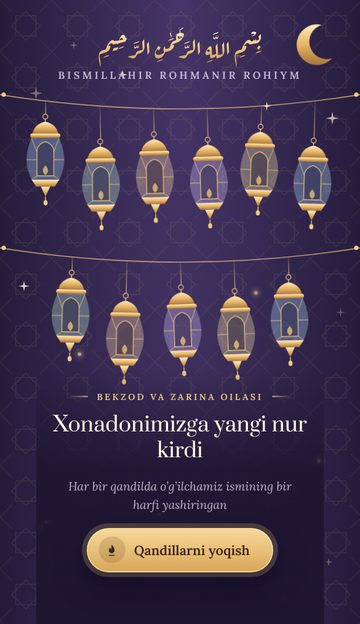
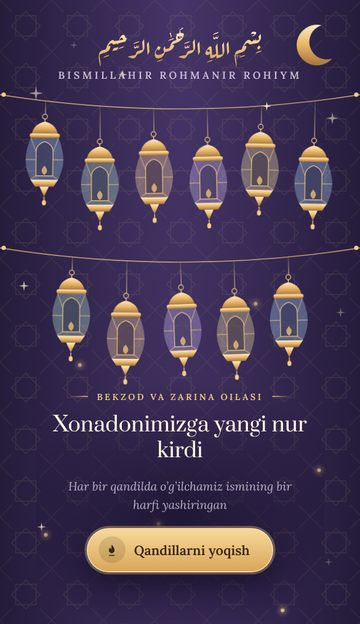
Islomiy va kreativ shablonlar (jarayonda) — oraliq holat
Claude-Session: https://claude.ai/code/session_01QjjRgS6SRFPeCnymLTHs8Z

diff --git a/catalog/v2/tugilgan-kun/tk8-hilol.dc.html b/catalog/v2/tugilgan-kun/tk8-hilol.dc.html
@@ -359,10 +359,10 @@ a{color:#C9BEF5}
         <p class="hl-d" style="margin: 0; font-size: 34px; line-height: 1.15; color: #F4EFE6">Alloh umringizga baraka bersin</p>
         <p style="margin: 12px 0 0; font-size: 15px; line-height: 1.6; color: #ADA6CF">Hayotingiz to’lin oydek nurli, kunlaringiz tinch va barakali bo’lsin. Omin.</p>
       </div>
-      <div aria-hidden="true" style="position: relative; height: 190px; margin-top: 20px; overflow: hidden">
-        <div class="hl-moonG" style="position: absolute; left: 115px; top: 0; width: 160px; height: 160px; border-radius: 50%; background: radial-gradient(circle, rgba(244,239,230,0.35), rgba(201,190,245,0) 70%)"></div>
-        <div style="position: absolute; left: 155px; top: 40px; width: 80px; height: 80px; border-radius: 50%; background: radial-gradient(circle at 40% 35%, #FFFDF6, #E3DCF4 60%, #C3B8EC); box-shadow: 0 0 40px rgba(244,239,230,0.5)"></div>
-        <svg width="390" height="190" viewBox="0 650 390 190" preserveAspectRatio="none" style="position: absolute; left: 0; top: 0"><path d="{{ skyline }}" fill="#0E0B26"></path><sc-for list="{{ footWins }}" as="fw"><rect x="{{ fw.x }}" y="{{ fw.y }}" width="5" height="7" rx="2.5" fill="#F6B95A"></rect></sc-for></svg>
+      <div aria-hidden="true" style="position: relative; height: 324px; margin-top: 0; overflow: hidden">
+        <div class="hl-moonG" style="position: absolute; left: 230px; top: -20px; width: 160px; height: 160px; border-radius: 50%; background: radial-gradient(circle, rgba(244,239,230,0.35), rgba(201,190,245,0) 70%)"></div>
+        <div style="position: absolute; left: 270px; top: 20px; width: 80px; height: 80px; border-radius: 50%; background: radial-gradient(circle at 40% 35%, #FFFDF6, #E3DCF4 60%, #C3B8EC); box-shadow: 0 0 40px rgba(244,239,230,0.5)"></div>
+        <svg width="390" height="324" viewBox="0 520 390 324" style="position: absolute; left: 0; top: 0"><path d="{{ skyline }}" fill="#0E0B26"></path><sc-for list="{{ footWins }}" as="fw"><rect x="{{ fw.x }}" y="{{ fw.y }}" width="5" height="7" rx="2.5" fill="#F6B95A"></rect></sc-for></svg>
       </div>
       <div style="position: relative; padding: 4px 20px 30px; background: #0E0B26">
         <p class="hl-d" style="margin: 0; font-size: {{ footFs }}px; line-height: 1.1; color: #F4EFE6; overflow-wrap: break-word">{{ name }}</p>
@@ -489,7 +489,7 @@ class Component extends DCLogic {
       return 'left: ' + Math.round(rnd(i, 40) * 386) + 'px; top: ' + f1(rnd(i, 41) * 100) + '%; width: ' + f1(sz) + 'px; height: ' + f1(sz) + 'px; animation-duration: ' + (2 + rnd(i, 43) * 3).toFixed(1) + 's; animation-delay: -' + (rnd(i, 44) * 3).toFixed(1) + 's';
     });
     const rays = Array.from({ length: 14 }, (_, i) => '--a: ' + Math.round(-180 + i * (180 / 13)) + 'deg; --d: ' + Math.round(80 + rnd(i, 50) * 60) + 'px; animation-delay: ' + (rnd(i, 51) * 0.18).toFixed(2) + 's');
-    const footWins = Array.from({ length: 16 }, (_, i) => ({ x: Math.round(10 + rnd(i, 60) * 370), y: Math.round(712 + rnd(i, 61) * 110) }));
+    const footWins = Array.from({ length: 16 }, (_, i) => ({ x: Math.round(10 + rnd(i, 60) * 370), y: Math.round(712 + rnd(i, 61) * 120) }));
     this.deco = {
       skyStars: skyStars, frameStars: frameStars, wins: wins, pageStars: pageStars, rays: rays, footWins: footWins,
       skyline: SKY, archD: ARCH,

diff --git a/catalog/v2/toy/toy11-registon.dc.html b/catalog/v2/toy/toy11-registon.dc.html
@@ -532,7 +532,7 @@ body{margin:0;background:#0E1636}
       </svg>
     </div>
     <div style="padding: 34px 24px 64px; display: flex; flex-direction: column; align-items: center; text-align: center; background: linear-gradient(180deg, #0B1230, #080D24)">
-      <p class="rg-ar rg-r" dir="rtl" lang="ar" style="margin: 0; max-width: 350px; font-size: 21px; line-height: 46px; color: #FFE3A0">بَارَكَ اللَّهُ لَكُمَا وَبَارَكَ عَلَيْكُمَا وَجَمَعَ بَيْنَكُمَا فِي خَيْرٍ</p>
+      <p class="rg-ar rg-r" dir="rtl" lang="ar" style="margin: 0; max-width: 356px; font-size: 18px; line-height: 42px; color: #FFE3A0">بَارَكَ اللَّهُ لَكُمَا وَبَارَكَ عَلَيْكُمَا وَجَمَعَ بَيْنَكُمَا فِي خَيْرٍ</p>
       <p class="rg-r" style="margin: 12px 0 0; max-width: 320px; font-style: italic; font-weight: 300; font-size: 15px; line-height: 24px; color: #D8DAEA; animation-delay: .08s">«Alloh sizlarga baraka bersin, ustingizga baraka yog’dirsin va ikkingizni yaxshilikda jamlasin»</p>
       <p class="rg-ys rg-r" style="margin: 30px 0 0; font-size: 30px; line-height: 38px; color: #FFF6E2; animation-delay: .14s">Tashrifingizdan xursand bo’lamiz</p>
       <sc-if value="{{ d.taklif_qiluvchilar }}"><p class="rg-lbl rg-r" style="margin-top: 22px; line-height: 19px; color: #9FE6E8; overflow-wrap: anywhere; animation-delay: .2s">{{ d.taklif_qiluvchilar }}</p></sc-if>

diff --git a/catalog/v2/farzand/fz8-chorbog.dc.html b/catalog/v2/farzand/fz8-chorbog.dc.html
@@ -126,7 +126,7 @@ body{margin:0;background:#EFE4CF}
 
   <div data-intro class="{{ introCls }}" aria-hidden="{{ introHidden }}" style="display: {{ introDisp }}; position: absolute; left: 0; top: 0; width: 390px; height: 844px; z-index: 30; overflow: hidden">
     <span aria-hidden="true" style="position: absolute; left: 0; top: 0; width: 0; height: 0"></span>
-    <div aria-hidden="true" style="position: absolute; left: 0; top: 640px; width: 390px; height: 204px; background: linear-gradient(180deg, rgba(239, 228, 207, 0), rgba(239, 228, 207, 0.96) 34%, #EFE4CF)"></div>
+    <div aria-hidden="true" style="position: absolute; left: 0; top: 640px; width: 390px; height: 204px; background: radial-gradient(ellipse 58% 48% at 50% 52%, rgba(243, 234, 214, 0.97) 45%, rgba(243, 234, 214, 0) 100%)"></div>
     <div style="position: absolute; left: 0; top: 676px; width: 390px; text-align: center">
       <p style="margin: 0 34px; font-size: 18px; font-style: italic; line-height: 1.45; color: #5C6553">{{ introHint }}</p>
       <button type="button" class="cb-btn cb-cta" onClick="{{ open }}" style="margin-top: 16px; display: inline-flex; align-items: center; gap: 12px; height: 60px; padding: 0 30px 0 14px; border: 0; border-radius: 30px; background: linear-gradient(180deg, #4DB5B0, #2B8A87); color: #FFFFFF; font-family: 'Tenor Sans', 'Trebuchet MS', sans-serif; font-size: 17px; letter-spacing: 0.04em">

diff --git a/catalog/v2/farzand/fz8-koshin.dc.html b/catalog/v2/farzand/fz8-koshin.dc.html
@@ -103,7 +103,7 @@ body{margin:0;background:#E6EFEA}
 
   <div data-intro class="{{ introCls }}" aria-hidden="{{ introHidden }}" style="display: {{ introDisp }}; position: absolute; left: 0; top: 0; width: 390px; height: 844px; z-index: 30; overflow: hidden">
     <span aria-hidden="true" style="position: absolute; left: 0; top: 0; width: 0; height: 0"></span>
-    <div aria-hidden="true" style="position: absolute; left: 0; top: 640px; width: 390px; height: 204px; background: linear-gradient(180deg, rgba(230, 239, 234, 0), rgba(230, 239, 234, 0.95) 38%, #E6EFEA)"></div>
+    <div aria-hidden="true" style="position: absolute; left: 0; top: 640px; width: 390px; height: 204px; background: radial-gradient(ellipse 58% 48% at 50% 52%, rgba(236, 244, 240, 0.95) 45%, rgba(236, 244, 240, 0) 100%)"></div>
     <div style="position: absolute; left: 0; top: 680px; width: 390px; text-align: center">
       <p style="margin: 0 34px; font-size: 16px; line-height: 1.5; color: #4E6470">{{ introHint }}</p>
       <button type="button" class="ks-btn ks-cta" onClick="{{ open }}" style="margin-top: 16px; display: inline-flex; align-items: center; gap: 12px; height: 60px; padding: 0 30px 0 14px; border: 0; border-radius: 20px; background: linear-gradient(160deg, var(--accb), var(--acc)); color: #FFFFFF; font-family: 'Raleway', system-ui, sans-serif; font-size: 17px; font-weight: 700">

diff --git a/catalog/v2/farzand/fz8-qandil.dc.html b/catalog/v2/farzand/fz8-qandil.dc.html
@@ -131,7 +131,7 @@ body{margin:0;background:#241B3A}
 
   <div data-intro class="{{ introCls }}" aria-hidden="{{ introHidden }}" style="display: {{ introDisp }}; position: absolute; left: 0; top: 0; width: 390px; height: 844px; z-index: 30; overflow: hidden">
     <span aria-hidden="true" style="position: absolute; left: 0; top: 0; width: 0; height: 0"></span>
-    <div aria-hidden="true" style="position: absolute; left: 0; top: 500px; width: 390px; height: 344px; background: linear-gradient(180deg, rgba(36, 27, 58, 0), rgba(29, 22, 49, 0.9) 40%, #1D1631)"></div>
+    <div aria-hidden="true" style="position: absolute; left: 0; top: 500px; width: 390px; height: 344px; background: radial-gradient(ellipse 60% 50% at 50% 55%, rgba(24, 17, 42, 0.75), rgba(24, 17, 42, 0) 100%)"></div>
     <sc-if value="{{ preShow }}">
       <div style="position: absolute; left: 22px; top: 528px; width: 346px; text-align: center">
         <p class="qd-eye"><i></i>{{ preFamily }}<i></i></p>
